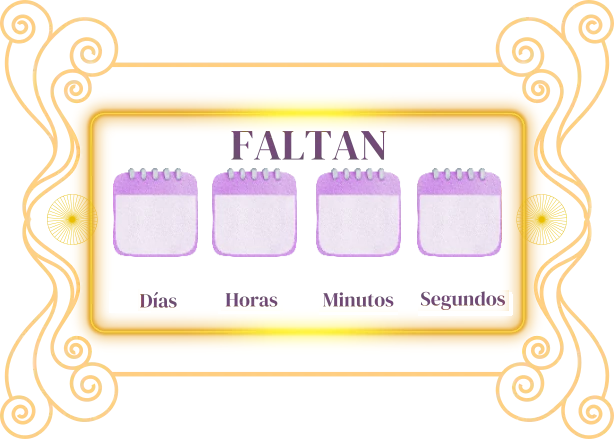
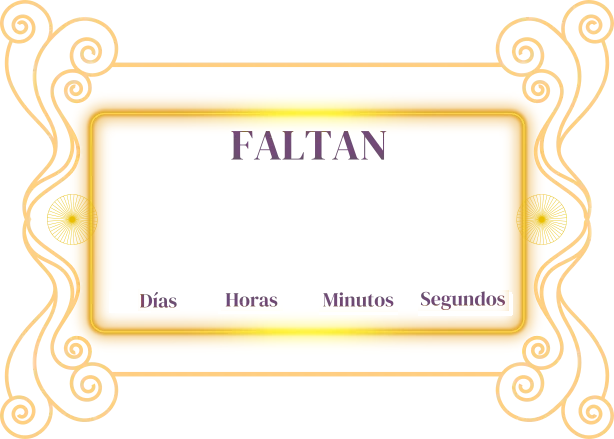
feat: New Counter style

Changed region(s): [[0.1857, 0.385, 0.8355, 0.5923]]

diff --git a/components/countdown.js b/components/countdown.js
@@ -7,7 +7,7 @@ export function createCountdown({
     height: "56px",
     minWidth: "88px",
     radius: "999px",
-    color: "#9645ad", // rosa
+    color: "#ede2f0", // rosa
     paddingInline: "16px",
     gapDigits: "6px",
   },
@@ -197,11 +197,13 @@ if (!document.getElementById(STYLE_ID)) {
   min-height: calc(var(--k) * 60px);
   border-radius: 999px;
   padding-inline: calc(var(--k) * 16px);
-  background: transparent;
+  background: var(--cd-pill-color, #A77A71);
   display:flex;
   align-items: center;
   justify-content: center;
-  box-shadow: none
+  border: 2px solid #ffcf82;
+  box-shadow: 0 1px 0 rgba(255,255,255,.35) inset,
+              0 10px 30px rgba(0,0,0,.18);
 }
 
 .cd-digit-row{
@@ -213,7 +215,7 @@ if (!document.getElementById(STYLE_ID)) {
 }
 
 .cd-digit{
-  max-height: calc(var(--k) * 35px);
+  max-height: calc(var(--k) * 30px);
   width: auto;
   display: block;
   object-fit: contain;
